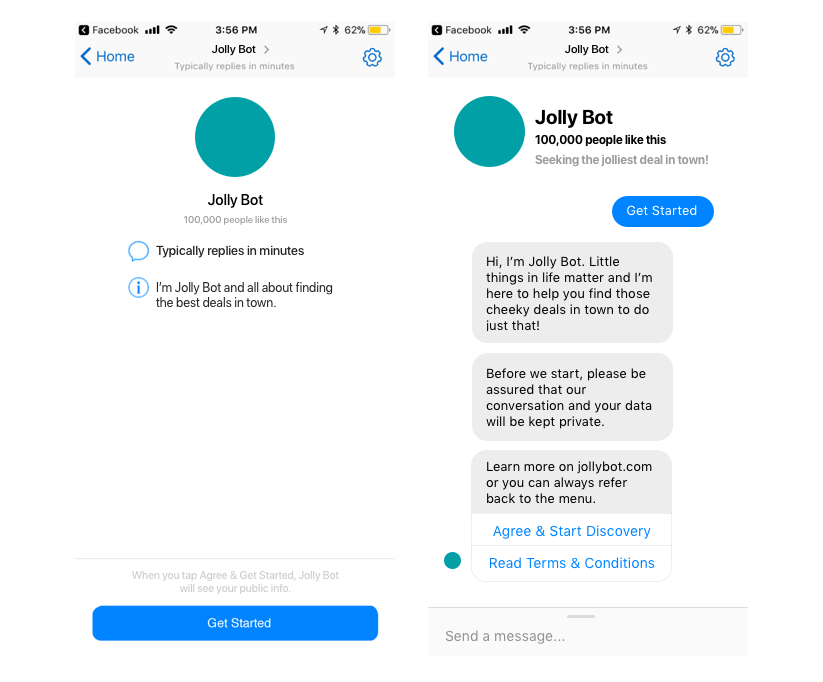
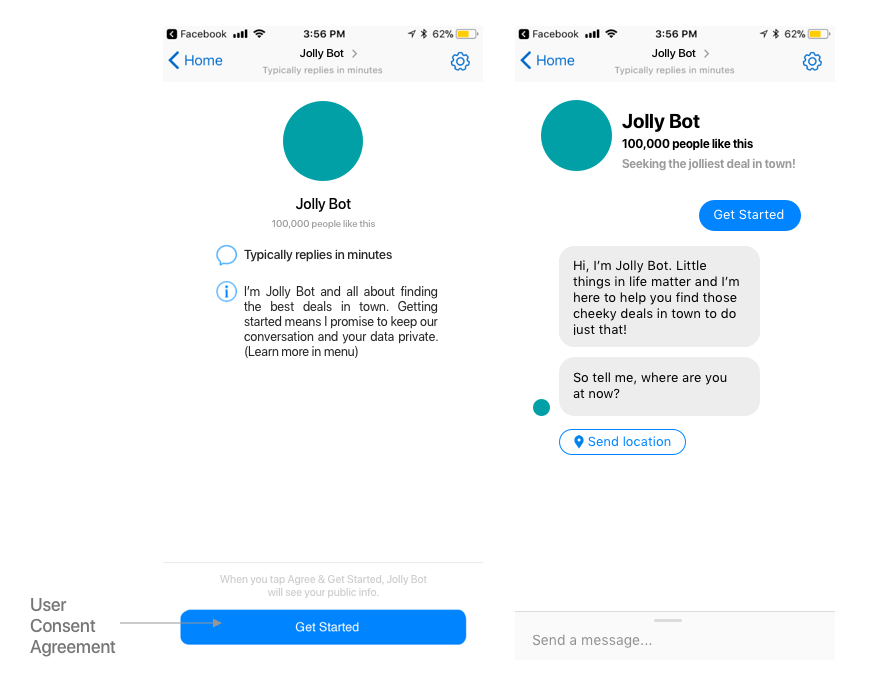
convo-design updates

diff --git a/conversation-design.html b/conversation-design.html
@@ -68,7 +68,7 @@
 <noscript><iframe src="https://www.googletagmanager.com/ns.html?id=GTM-56ZG4FN"
 height="0" width="0" style="display:none;visibility:hidden"></iframe></noscript>
 <!-- End Google Tag Manager (noscript) -->
-<!--
+
     <nav id="mainNav" class="navbar navbar-default navbar-fixed-top navbar-container">
         <div class="container-fluid">
             <!-- Brand and toggle get grouped for better mobile display -->
@@ -107,7 +107,7 @@ height="0" width="0" style="display:none;visibility:hidden"></iframe></noscript>
         <div class="container text-center" style="padding: 30px;">
             <br>
             <h1 style="line-height: auto">Making Conversations Human</h1>
-            <h4 style="font-family: 'Lato'; line-height: 140%">Conversation Component Design</h4>
+            <h4 style="font-family: 'Lato'; line-height: 140%">Conversation (UI) Component Design </h4>
           
         </div>
     </section>
@@ -120,49 +120,50 @@ height="0" width="0" style="display:none;visibility:hidden"></iframe></noscript>
     <section class="bg-beige">
         
         <div class="container text-center" style="max-width: 600px; padding-right: 10px; padding-left: 10px; padding-bottom: 10px;">
-           <h2 class="section-heading">How Does One Sound 'Human'? <img src="img/portfolio/convodesign/thinking.png" class="img-responsive heading-icon"></h2>
+           <h3 class="section-heading">How Does One Sound 'Human'? <img src="img/portfolio/convodesign/thinking.png" class="img-responsive heading-icon"></h2>
            <br>
-           <p>Designing for conversations all come down to the micro interactions.</p>
-           <p>Every word, phrase or sentence can evoke emotions, and increase engagements or cause drop-outs as a result. Words are the only interface and it all comes down to the details – words.</p>
-           <p>I was working on a chatbot project that was hypothesizing conversational experiences as a means of content discovery instead of browsing a website, as part of an experimental project at a bank’s innovation lab.</p>
+           <p>Designing for conversations all come down to the details - words.</p>
+           <p>Every word, phrase or sentence evoke emotions, and increase engagements or cause drop-outs as a result.</p>
+           <p>As part an experimental project at a bank's innovation lab, I was working on a chatbot that helps users discover the best offers in town based on their likes and preferences. </p>
         </div>
     </section>
 
     <section class="bg-white">
         <div class="container text-center" style="max-width: 600px; padding-top: 10px; padding-right: 10px; padding-left: 10px;">  
-            <h2 class="section-heading"> Conversation Component</h2>
+            <h2 class="section-heading">Iterating the Conversation Design</h2>
             <br>
-            <p>I joined the project mid-way and was tasked to design for enhancements, the details – you know, the words.</p>
+            <p>I joined the project mid-way and was tasked to design 3 new functionalities, particularly for the onboarding and user tasks. </p>
+            <p>The chatbot's main conversation flow (or primary user journey) asks users to choose from a set of parameters, which effectively act as filters for the results.</p>
+            <p> If the user is not satisfied with the result, they can repeat the process and answer any one of the parameters again as they like. </p>
+        </div>
+        
+        <div class="pfolio-img">
+            <img src="img/portfolio/convodesign/bot-journey.png" class="img-responsive sr-box adjust1">
+
+        </div>
+        <div class="container text-center" style="max-width: 600px; padding-top: 10px; padding-right: 10px; padding-left: 10px;">  
+            <p>For the change language functionality, there are two possible paths where users can change language.  You will see more in the section later.</p>
+            <br><br>
+            <h3 class="section-heading"><!--<i class="fas fa-wrench"></i>--> Comparing Conversation Components</h3>
+            <br>
             <p>As digital interfaces are composed of UI components, conversations are composed of conversation components.</p>
             <p>Depending on the platform, the conversation components vary. Comparing Facebook Messenger and Slack components in their closest forms:</p>
 
             <div class="pfolio-img">
                 <img src="img/portfolio/convodesign/btn-comparison.jpg" class="img-responsive sr-box">
-                <p class="story-caption">Facebook <a href="https://developers.facebook.com/docs/messenger-platform/send-messages/quick-replies" target="blank">'Quick Replies'</a> vs Slack <a href="https://api.slack.com/docs/message-buttons" target="blank">'Interactive Message Buttons'</a></p>
+                <p class="story-caption">Facebook Messenger <a href="https://developers.facebook.com/docs/messenger-platform/send-messages/quick-replies" target="blank">'Quick Replies'</a> vs Slack <a href="https://api.slack.com/docs/message-buttons" target="blank">'Interactive Message Buttons'</a></p>
                 <br>
                 <img src="img/portfolio/convodesign/card-comparison.jpg" class="img-responsive sr-box">
-                <p class="story-caption">Facebook <a href="https://developers.facebook.com/docs/messenger-platform/send-messages/template/generic/" target="blank">'Templates'</a> vs Slack <a href="https://api.slack.com/actions" target="blank">'Actions'</a></p>
+                <p class="story-caption">Facebook Messenger <a href="https://developers.facebook.com/docs/messenger-platform/send-messages/template/generic/" target="blank">'Templates'</a> vs Slack <a href="https://api.slack.com/actions" target="blank">'Actions'</a></p>
                 <br>
-                <p class="story-caption" style="text-align: left;">For more information on conversation components, have a look at their documentation and I also highly recommend this book to Designing Chatbots.</p>    
+                <p class="story-caption" style="text-align: left;">For more information on conversation components, have a look at their documentation and I also highly recommend this book to <a href="https://www.amazon.com/Designing-Bots-Creating-Conversational-Experiences/dp/1491974826" target="blank">Designing Bots</a>.</p>    
             </div>
-            <p>For my project, the platform was Messenger.</p>
+            <p>It's important to first study the available components and know your constraints such as character limit, interface layout and button styles.</p>
+            <p>For my project, the platform was Facebook Messenger.</p>
         </div>
     </section>
 
-    <section class="bg-white">
-        <div class="container text-center" style="max-width: 600px; padding-top: 10px; padding-right: 10px; padding-left: 10px;">
-            <h3 class="section-heading"><!--<i class="fas fa-wrench"></i>--> Conversation Interactions to Enhance</h3>
-            <br>
-            <p>Tasked with 3 challenges, I first studied the user journey, or the conversation flow, and then zoomed in on each challenge's interaction.</p>
-            <!--
-            
-        -->
-            
-        </div>
-    </section>
-    <div class="pfolio-img">
-            <img src="img/portfolio/convodesign/bot-journey.png" class="img-responsive sr-box adjust1">
-    </div>
+    
     <!--
     <div class="container text-center" style="max-width: 600px; padding-top: 10px; padding-right: 10px; padding-left: 10px;">
         
@@ -186,16 +187,21 @@ height="0" width="0" style="display:none;visibility:hidden"></iframe></noscript>
             </div>
         </div>
     -->
+
+
+        <div class="container text-center" style="max-width: 600px; padding-top: 10px; padding-right: 10px; padding-left: 10px;">  
+            
+        </div>
     <section class="bg-blue">
         <div class="container text-center" style="max-width: 600px; padding-top: 10px; padding-right: 10px; padding-left: 10px;">
            <h3 class="section-heading"><img src="img/portfolio/convodesign/enhancement.png" class="pstory-icon img-responsive"> User Consent Agreement</h3>
-            <p>Given the importance of data privacy and security, user consent is no doubt required but generally considered the least favorite part of the experience.</p>
+            <p>Given the importance of data privacy and security, user consent is typically required.  It is generally designed as part of onboarding and known as the least favorite part of the experience.</p>
             
-            <p>Currently on Messenger, there are two parts to the experience - the welcome screen, with a 1000 character limit and then the chatbot’s introduction.</p>
+            <p>On Facebook Messenger, there are two components to the onboarding - the welcome screen, with a 1000 character limit and then the chatbot’s introduction.</p>
             <div class="pfolio-img">
                 <img src="img/portfolio/convodesign/welcome-screen-example.png" class="img-responsive sr-box">
                 <br>
-                <p class="story-caption">Facebook Messenger's <a href="https://developers.facebook.com/docs/messenger-platform/introduction/conversation-components" target="blank">welcome screen</a> example</p>
+                <p class="story-caption">Facebook Messenger's <a href="https://developers.facebook.com/docs/messenger-platform/introduction/conversation-components" target="blank">welcome and introduction screen</a> example</p>
             </div>
             <p>Given these two component options, I could insert the user consent agreement in either the welcome screen or at the introduction.</p>
             <p>I mocked up two versions and validated it with a small sample of users:</p>
@@ -206,14 +212,19 @@ height="0" width="0" style="display:none;visibility:hidden"></iframe></noscript>
             <img src="img/portfolio/convodesign/consent-validateB.png" class="img-responsive">
             <p class="story-caption">Version 2: getting user consent in the introduction screen</p>
 
-            <p>The final verdict was version 2.  Having the user consent agreement on the welcome screen makes the experience feel less clunky and more up front.</p>
+            <p>The final verdict was version 1.  Having the user consent agreement on the welcome screen makes the experience feel less clunky and more up front.</p>
             
             <br><br>
             <h3 class="section-heading"><img src="img/portfolio/convodesign/enhancement.png" class="pstory-icon img-responsive"> Change Language</h3>
-            <p>In most digital experiences, the 'change language' function typical is nested inside the menu or settings.  Adhering to this wired behaviour, this is the first place we will have it. </p>
-            <img src="img/portfolio/convodesign/change-language-default.png" class="img-responsive">
+
+            <p>In most digital experiences, the 'change language' function is typically nested inside the menu or settings.  Adhering to this wired behaviour, this is the first place we will have it. </p>
+            <div class="pfolio-img">
+                <img src="img/portfolio/convodesign/change-language-default.png" class="img-responsive">
+            </div>
             <br>
-            <p>Hong Kong is a relatively bi-lingual but Cantonese (a dialect of Chinese) is still the primary language over English.  As a result, global brands like Google has defaulted our online experiences to Cantonese. </p>
+            
+            <h3 class="section-heading"> When Language Default Fails</h3>
+            <p>Hong Kong is a relatively bi-lingual market, but Cantonese (a dialect of Chinese) is still the primary language over English.  As a result, global brands like Google has defaulted our online experiences to Cantonese. </p>
             <p>For example, my Google account preferences are all set in English.  But whenever I open a Google Maps link or connect with my Google account for logins, the default language is Cantonese.</p>
             <p>Luckily, I am a bi-lingual. But for English-speakers, how would they know what the change language option is if it’s in a foreign language?</p>
             
@@ -224,32 +235,30 @@ height="0" width="0" style="display:none;visibility:hidden"></iframe></noscript>
             <p class="story-caption">An example of connecting with Google Login where the default language is Cantonese for Hong Kong</p>
             
             <p>The first touch I introduced was making the change language option bi-lingual.</p>
+            <div class="pfolio-img">
             <img src="img/portfolio/convodesign/change-language-bilingual.png" class="img-responsive">
-            <br>
-            <p>The most common path to the need of changing languages is usually at the beginning of the conversation.  The current component is already nested inside the menu, so I thought how can we bring this experience forward and make it just a little more delightful by making use of Messenger’s ‘Quick Reply’ component.</p>
-            <p>I prototyped the conversation by speaking out loud and decided to test the sequence of which this language change function is best introduced without being too long-winded and not confusing.</p>
+            <p class="story-caption">Change language setting is now available in two languages</p>
+            </div>
+            <p>Another common path to changing languages is at the beginning of a conversation.</p>
+            <p>Making use of Facebook Messenger's 'Quick Reply' component, I tested the sequence of changing language either before or after the user consent. </p>
         </div>
     
-            <div class="pfolio-img">
-                <img src="img/portfolio/convodesign/language-validate.png" class="img-responsive sr-box adjust3">
-                <br>
-                <p class="story-caption">An example of connecting with Google Login where the default language is Cantonese for Hong Kong</p>
-            </div>
+        <div class="pfolio-img">
+            <img src="img/portfolio/convodesign/language-validate.png" class="img-responsive sr-box adjust3">
+            <br>
+            <p class="story-caption">Testing the sequence of changing languages either before or after user consent</p>
+        </div>
+
         <div class="container text-center" style="max-width: 600px; padding-top: 10px; padding-right: 10px; padding-left: 10px;">
-            <p>Validate between:
--   Quick reply component after introduction
--   After full intro and T&Cs
+            <p>This was an easy one.  Users preferred the more straightforward prototype B, where they can change languages via 'Quick Reply' then agree to the user consent.</p>
+            <br><br>
 
-Additional feature:
--   In menu, make menu items bi-lingual as well
-o   Usually people can guess how to navigate to menu</p>
+            <h3 class="section-heading"><img src="img/portfolio/convodesign/enhancement.png" class="pstory-icon img-responsive"> Share Location</h3>
+            <br>
+            <p>One of the ways users can discover offers is to share their current location and find out what's near them.</p>
 
-<p>Final verdict</p>
-<br><br>
-<h3 class="section-heading"><img src="img/portfolio/convodesign/enhancement.png" class="pstory-icon img-responsive"> Share Location</h3>
-
-    <h3 class="section-heading"><img src="img/portfolio/convodesign/language.png" class="pstory-icon img-responsive" style="display: inline-block; width: 25px; height: auto;">  About Localization</h3>
-    <p>The experience needs to be consistent:
+            <h3 class="section-heading"><img src="img/portfolio/convodesign/language.png" class="pstory-icon img-responsive" style="display: inline-block; width: 25px; height: auto;">  About Localization</h3>
+            <p>The experience needs to be consistent:
    Links should be the same language when opened on the web view
    Directions - Google Maps API must default to user's preferred language (English or CN), the default is now CN no matter the user language
 
